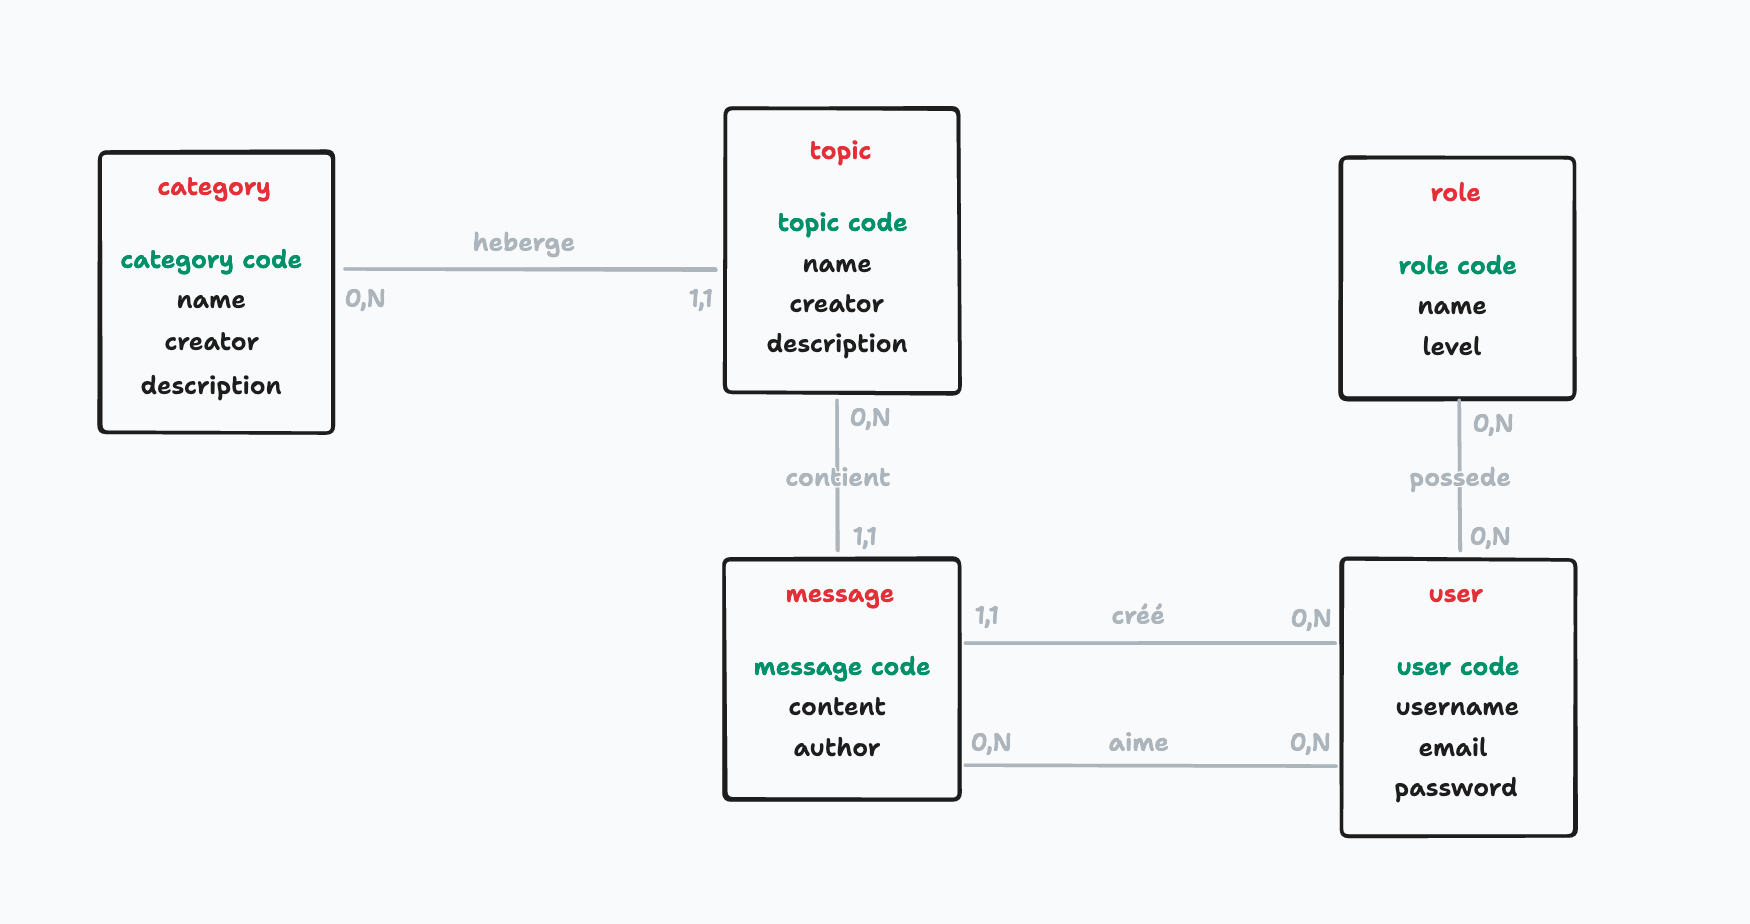
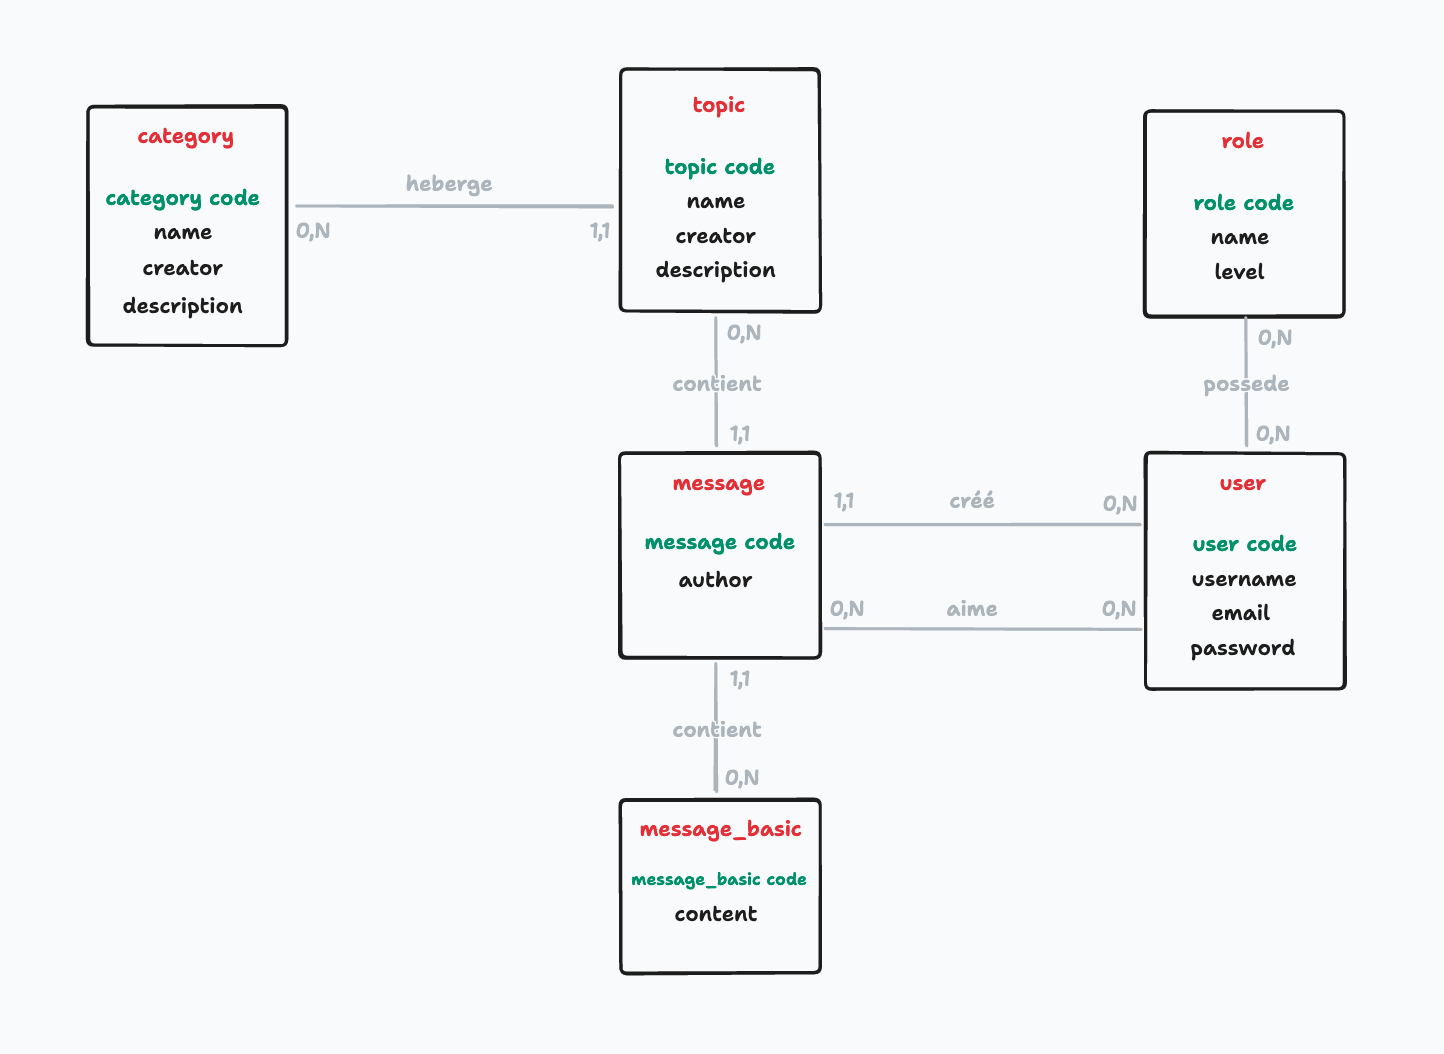
modif mcd mld : ajout type de message

diff --git a/doc/mld.md b/doc/mld.md
@@ -1,15 +1,17 @@
 # MLD
 
 ```
-user ( id INT, username TEXT, email TEXT, password TEXT )
+user ( id INT, username TEXT, email TEXT, password TEXT, created_at DATE, updated_at DATE )
 
-category ( id INT, name TEXT, description TEXT, #user(id) )
-topic ( id INT, name TEXT, description TEXT, #user(id), #category(id) )
+category ( id INT, name TEXT, description TEXT, #user(id), created_at DATE, updated_at DATE )
+topic ( id INT, name TEXT, description TEXT, #user(id), #category(id), created_at DATE, updated_at DATE )
 
 role (id INT, name TEXT, level INT )
-user_has_role ( #user(id), #role(id) )
+user_has_role ( #user(id), #role(id), created_at DATE, updated_at DATE )
 
-message ( id INT, content TEXT, #user(id), #topic(id) )
+message ( id INT, #user(id), #topic(id), type TEXT, created_at DATE, updated_at DATE )
+message_basic ( id INT, content TEXT, #message(id) )
+
 user_like_message ( #user(id), #message(id) )
 
 ```

diff --git a/doc/mcd.md b/doc/mcd.md
@@ -3,4 +3,3 @@
 ---
 
 https://www.tldraw.com/r/v2VJ1v8y4-F--c4ShxUgH7Z
-
